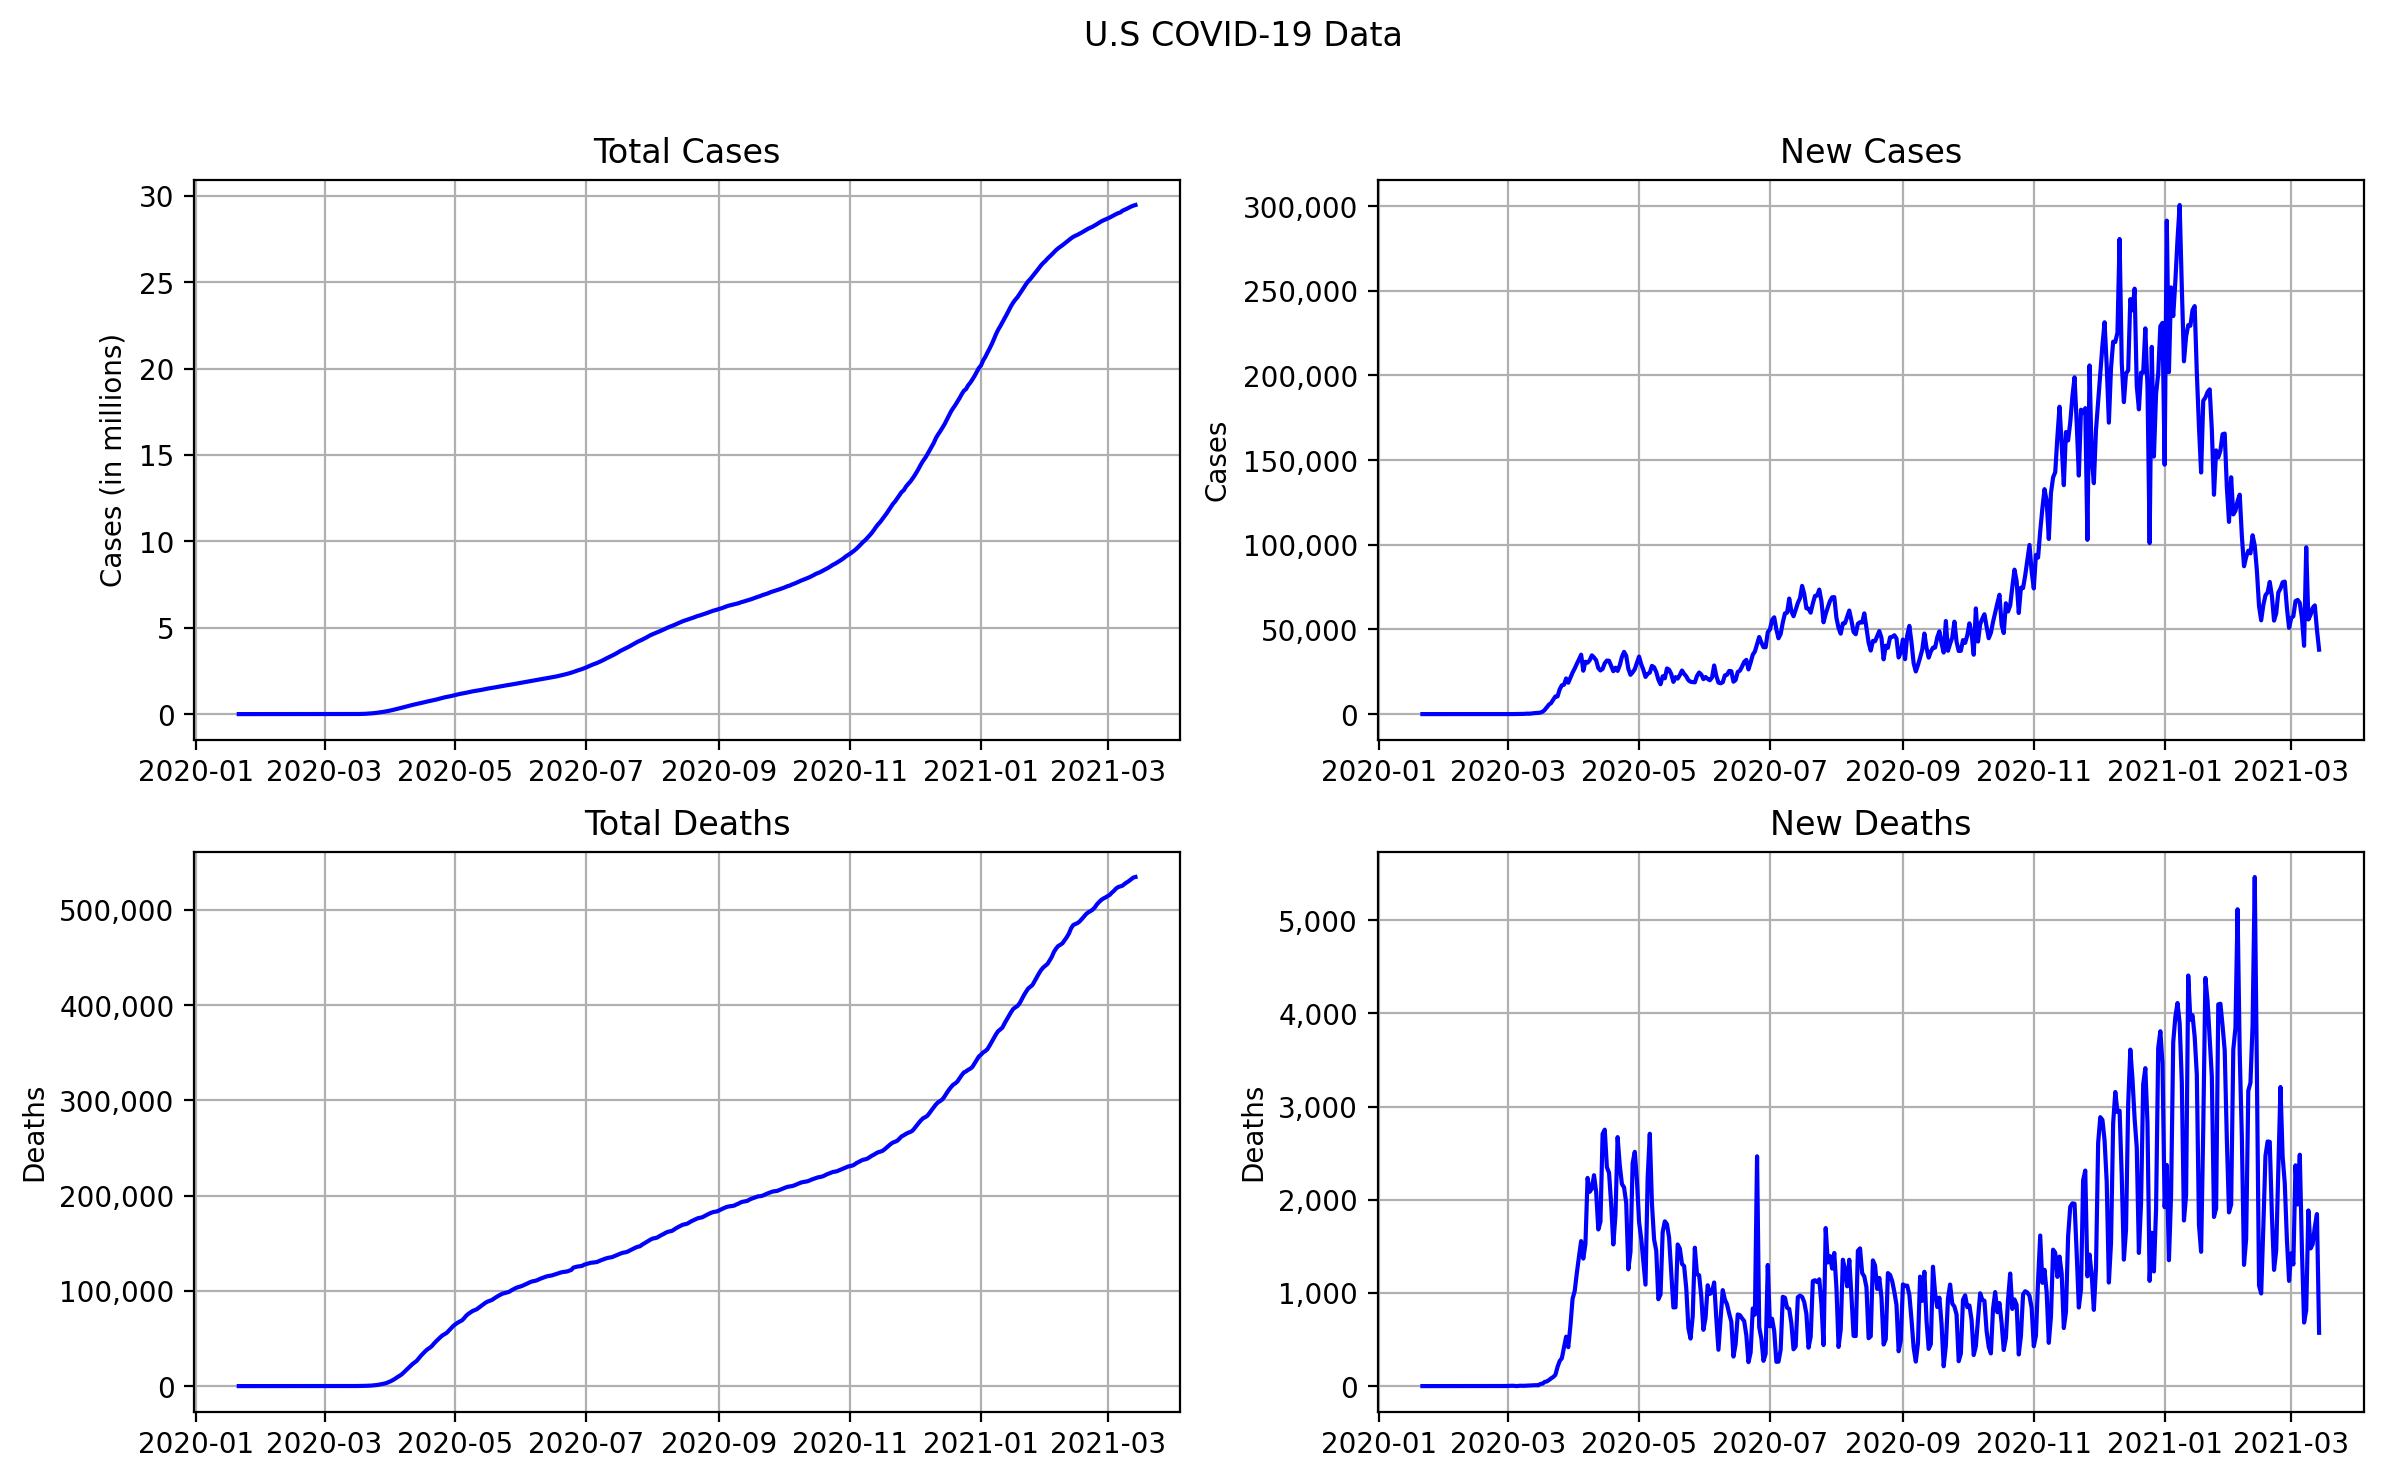
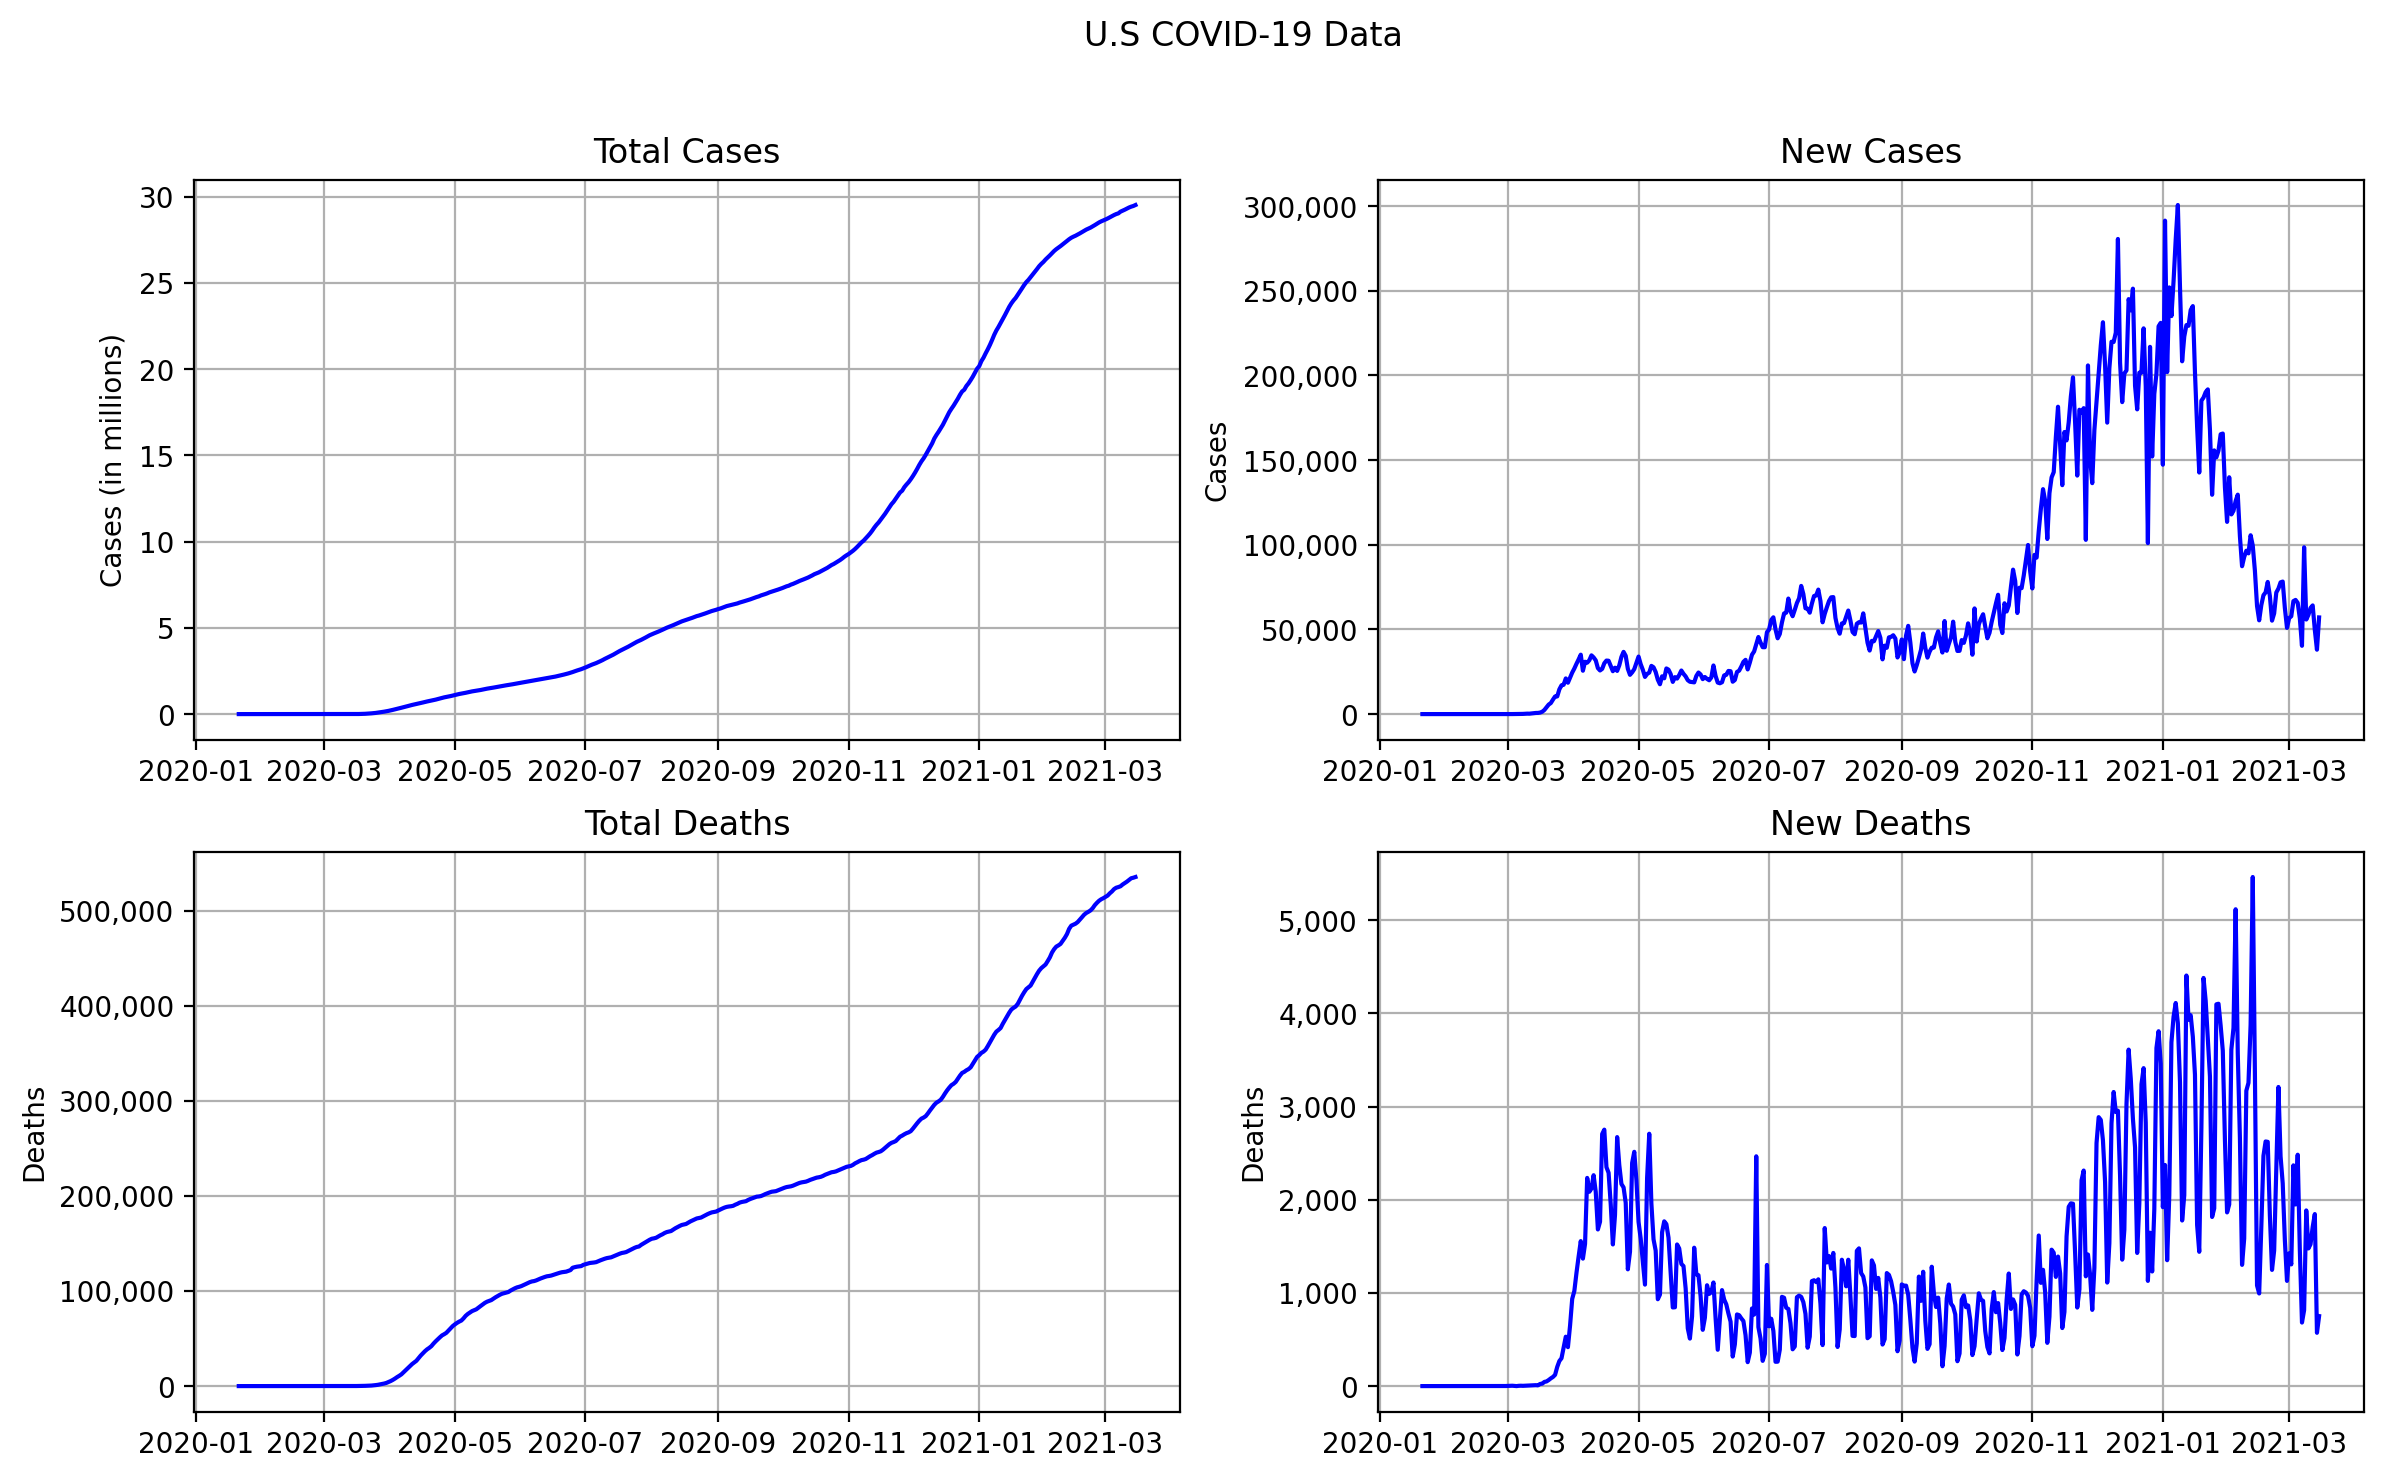
Updating data.

diff --git a/README.md b/README.md
@@ -1,9 +1,9 @@
-###### Updated March 15, 2021, 4:16 A.M EST
+###### Updated March 16, 2021, 2:20 A.M EST
 # US COVID-19 Data 
 ###### [ [U.S. Data](us.csv) ([Raw CSV](https://raw.githubusercontent.com/drebrb/covid-19-data/master/us.csv)) | [U.S. State-Level Data](states) ]
-| U.S    | Total Reported   | On March 14   | 7-Day Average   |
+| U.S    | Total Reported   | On March 15   | 7-Day Average   |
 |:-------|:-----------------|:--------------|:----------------|
-| Cases  | 29,461,663       | 38,034        | 61,071          |
-| Deaths | 534,476          | 572           | 1,403           |
+| Cases  | 29,518,746       | 57,083        | 55,153          |
+| Deaths | 535,227          | 751           | 1,394           |
 ###### [ [U.S. Plot](us.png) ]
 ![Plot](https://github.com/drebrb/covid-19-data/blob/master/us.png)
